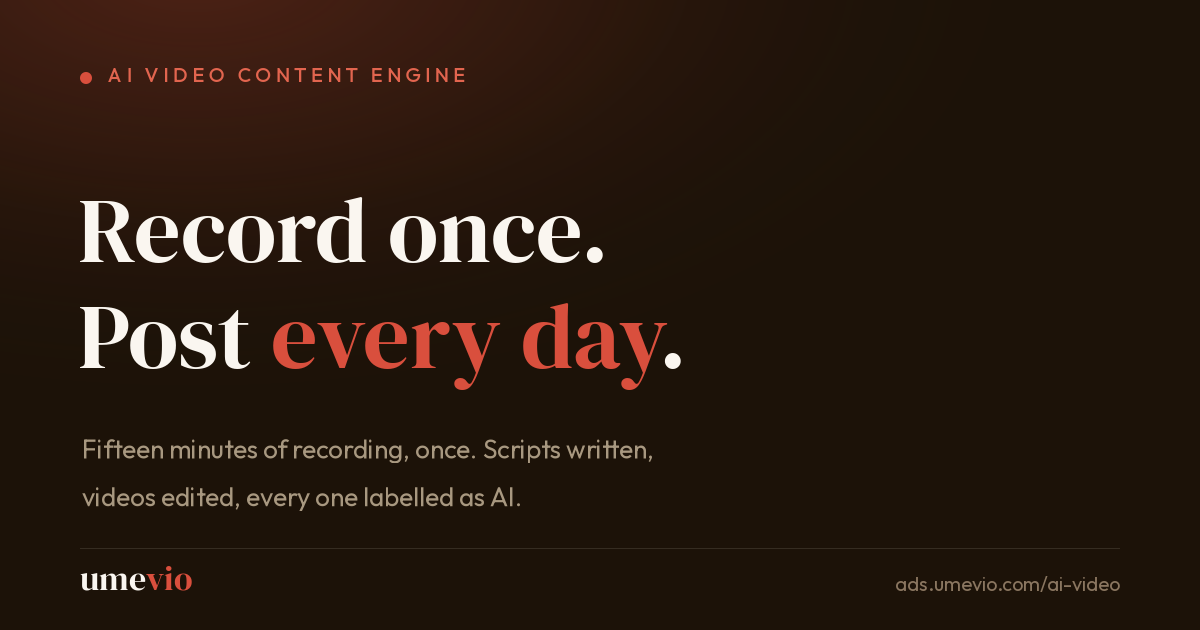
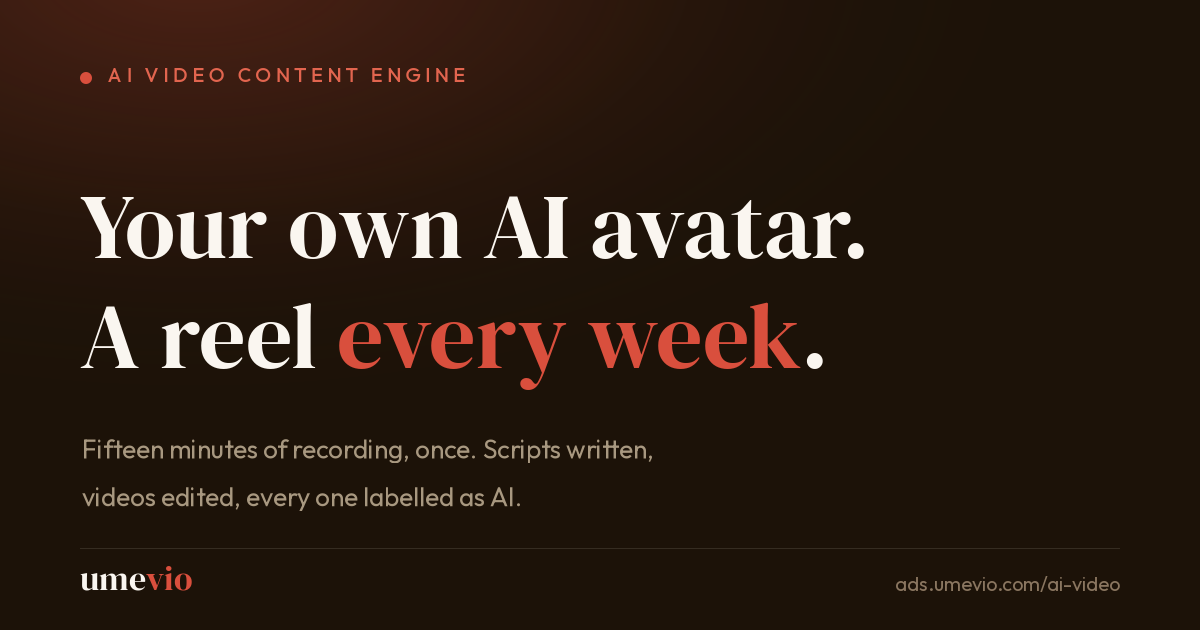
CRO pass on /ai-video: push visitors to the form
- Mobile sticky bar: big "Book a Free 30-Min Call" + WhatsApp icon (Call
  moved to the hero); it slides away once the form is on screen
- Hero: booking button on its own row, WhatsApp and Call under it
- Headline now "Your own AI avatar. A reel every week." (the old "Post
  every day" overpromised 4 reels a month); audience line adds doctors;
  share title, description and card updated to match
- "Already bought an AI avatar tool?" block for the A02 ad's promise
- Mid-page booking button after the video strip
- Price cards say "Book a call about this plan" and pass the plan to
  the form; the lead also carries utm_* and fbclid
- "I take six video clients at most" beside the prices; "You'll talk
  to Sreevin" and the reply-time line at the form
- Feature strip under the hero brightened

Changed region(s): [[0.0617, 0.4825, 0.6783, 0.6333], [0.0617, 0.3016, 0.74, 0.4222]]

diff --git a/components/AiVideoLanding.tsx b/components/AiVideoLanding.tsx
@@ -402,7 +402,7 @@ const FAQS = [
    Client names appear with the founder's authorisation (2026-08-12); he owns those
    relationships and confirmed he would speak to them directly. */
 const LIBRARY = [
-  { s: 'd1', v: `${V}/d1-hero.mp4`, p: '/images/ai-video/d1-poster.webp', c: 'Umevio', t: 'Record once, post daily' },
+  { s: 'd1', v: `${V}/d1-hero.mp4`, p: '/images/ai-video/d1-poster.webp', c: 'Umevio', t: 'One recording, every reel' },
   { s: 'pro-cost', v: `${V}/pro-cost.mp4`, p: '/images/ai-video/library/pro-cost.webp', c: 'Proalign', t: 'What braces actually cost' },
   { s: 'mpi-secret', v: `${V}/mpi-secret.mp4`, p: '/images/ai-video/library/mpi-secret.webp', c: 'MPI Invest', t: 'A secret in investing' },
   { s: 'mpi-skills', v: `${V}/mpi-skills.mp4`, p: '/images/ai-video/library/mpi-skills.webp', c: 'MPI Invest', t: 'Skills over salary' },
@@ -613,7 +613,10 @@ const CSS = `
         .av-sticky { position: fixed; left: 0; right: 0; bottom: 0; z-index: 50; display: flex; gap: 10px;
           padding: 12px 14px calc(12px + env(safe-area-inset-bottom));
           background: rgba(20,16,16,.92); backdrop-filter: blur(12px);
-          box-shadow: inset 0 1px 0 rgba(240,233,223,.12); }
+          box-shadow: inset 0 1px 0 rgba(240,233,223,.12);
+          transition: transform .25s ease, opacity .25s ease; }
+        .av-sticky--away { transform: translateY(110%); opacity: 0; pointer-events: none; }
+        @media (prefers-reduced-motion: reduce) { .av-sticky { transition: none; } }
         @media (min-width: 768px) { .av-sticky { display: none; } }
         .av-tailpad { height: 108px; }
         @media (min-width: 768px) { .av-tailpad { height: 0; } }
@@ -701,6 +704,25 @@ export default function AiVideoLanding() {
   const [sending, setSending] = useState(false);
   const [sent, setSent] = useState(false);
   const [err, setErr] = useState('');
+  /* Which price card sent them to the form, and which ad sent them to the page.
+     Both ride along in the lead email so a booked call can be traced back. */
+  const [plan, setPlan] = useState('');
+  const [utm, setUtm] = useState<Record<string, string>>({});
+  /* The sticky bar steps aside once the form is on screen: it would otherwise
+     sit on top of the fields and the submit button, worst with the keyboard up. */
+  const [formInView, setFormInView] = useState(false);
+
+  useEffect(() => {
+    const q = new URLSearchParams(window.location.search);
+    const keep: Record<string, string> = {};
+    ['utm_source', 'utm_medium', 'utm_campaign', 'utm_content', 'utm_term', 'fbclid'].forEach((k) => { const v = q.get(k); if (v) keep[k] = v; });
+    setUtm(keep);
+    const form = document.getElementById('start');
+    if (!form || !('IntersectionObserver' in window)) return;
+    const io = new IntersectionObserver(([e]) => setFormInView(e.isIntersecting), { threshold: 0.05 });
+    io.observe(form);
+    return () => io.disconnect();
+  }, []);
 
   const wa = `https://wa.me/${client.whatsapp.replace(/[^0-9]/g, '')}?text=${encodeURIComponent("Hi Sreevin — I saw the AI video page and I'd like to know more.")}`;
 
@@ -768,6 +790,8 @@ export default function AiVideoLanding() {
         headers: { 'Content-Type': 'application/json', Accept: 'application/json' },
         body: JSON.stringify({
           name, phone, work, blocker, budget,
+          plan: plan || 'not chosen',
+          ...utm,
           source: '/ai-video',
           _subject: `AI video enquiry — ${name || 'no name'}`,
         }),
@@ -805,8 +829,10 @@ export default function AiVideoLanding() {
           </Reveal>
 
           <Reveal delay={60}>
+            {/* Was "Record once. Post every day." — a promise the 4-reels-a-month
+                plan does not keep. Now matches the ads' "your own AI avatar". */}
             <h1 style={{ fontFamily: SERIF, fontSize: 'clamp(46px, 9.4vw, 88px)', lineHeight: 1.0, letterSpacing: '-0.025em', margin: `${SP.lg}px 0 0`, color: T.paper, maxWidth: 900 }}>
-              Record once.<br />Post <span style={{ color: T.rouge }}>every day</span>.
+              Your own AI avatar.<br />A reel <span style={{ color: T.rouge }}>every week</span>.
             </h1>
           </Reveal>
 
@@ -815,7 +841,7 @@ export default function AiVideoLanding() {
               before this, every word of body copy was Outfit. */}
           <Reveal delay={120}>
             <p style={{ fontFamily: SERIF, fontStyle: 'italic', fontSize: 'clamp(19px, 2.4vw, 25px)', lineHeight: 1.5, color: T.dust, margin: `${SP.lg}px 0 0`, maxWidth: 580 }}>
-              AI video for coaches and founders who can&rsquo;t keep filming.
+              For doctors, coaches and founders who can&rsquo;t keep filming.
             </p>
           </Reveal>
 
@@ -826,13 +852,21 @@ export default function AiVideoLanding() {
           </Reveal>
 
           <Reveal delay={200}>
-            <div style={{ display: 'flex', flexWrap: 'wrap', gap: 14, margin: `${SP.xl}px 0 0` }}>
-              <a href="#start" className="av-btn" style={{ display: 'inline-flex', alignItems: 'center', gap: 10, background: T.rouge, color: T.paper, textDecoration: 'none', padding: '17px 30px', borderRadius: RA.pill, fontWeight: 600, fontSize: FS.base, minHeight: 44, boxShadow: 'inset 0 1px 0 rgba(255,255,255,.18), 0 18px 46px rgba(217,79,61,.30)', cursor: 'pointer' }}>
+            {/* The form is the conversion, so the booking button gets a row to
+                itself; WhatsApp and Call sit under it, quieter, for people who
+                would rather talk now. */}
+            <div style={{ display: 'grid', gap: 12, margin: `${SP.xl}px 0 0`, maxWidth: 420 }}>
+              <a href="#start" className="av-btn" style={{ display: 'inline-flex', alignItems: 'center', justifyContent: 'center', gap: 10, background: T.rouge, color: T.paper, textDecoration: 'none', padding: '17px 30px', borderRadius: RA.pill, fontWeight: 600, fontSize: FS.base, minHeight: 44, boxShadow: 'inset 0 1px 0 rgba(255,255,255,.18), 0 18px 46px rgba(217,79,61,.30)', cursor: 'pointer' }}>
                 {client.primaryCTA} {Icon.arrow}
               </a>
-              <a href={wa} onClick={onWa} target="_blank" rel="noopener noreferrer" className="av-btn" style={{ display: 'inline-flex', alignItems: 'center', gap: 10, background: 'transparent', color: T.dust, textDecoration: 'none', padding: '17px 26px', borderRadius: RA.pill, fontWeight: 500, fontSize: FS.base, minHeight: 44, boxShadow: `inset 0 0 0 1px rgba(240,233,223,.22)`, cursor: 'pointer' }}>
-                {Icon.whatsapp} WhatsApp
-              </a>
+              <div style={{ display: 'flex', gap: 12 }}>
+                <a href={wa} onClick={onWa} target="_blank" rel="noopener noreferrer" className="av-btn" style={{ flex: 1, display: 'inline-flex', alignItems: 'center', justifyContent: 'center', gap: 9, background: 'transparent', color: T.dust, textDecoration: 'none', padding: '13px 18px', borderRadius: RA.pill, fontWeight: 500, fontSize: FS.sm, minHeight: 44, boxShadow: `inset 0 0 0 1px rgba(240,233,223,.22)`, cursor: 'pointer' }}>
+                  {Icon.whatsapp} WhatsApp
+                </a>
+                <a href={`tel:${client.phone}`} onClick={onCall} className="av-btn" style={{ flex: 1, display: 'inline-flex', alignItems: 'center', justifyContent: 'center', background: 'transparent', color: T.dust, textDecoration: 'none', padding: '13px 18px', borderRadius: RA.pill, fontWeight: 500, fontSize: FS.sm, minHeight: 44, boxShadow: `inset 0 0 0 1px rgba(240,233,223,.22)`, cursor: 'pointer' }}>
+                  Call
+                </a>
+              </div>
             </div>
           </Reveal>
 
@@ -884,7 +918,7 @@ export default function AiVideoLanding() {
 
       {/* ── STRIP ──────────────────────────────────────────────────────────── */}
       <div style={{ boxShadow: `inset 0 1px 0 rgba(240,233,223,.09), inset 0 -1px 0 rgba(240,233,223,.09)`, background: 'rgba(20,16,16,.45)' }}>
-        <div style={{ maxWidth: 1120, margin: '0 auto', padding: '20px', display: 'flex', flexWrap: 'wrap', gap: '10px 26px', justifyContent: 'center', fontSize: FS.xs, letterSpacing: '.1em', textTransform: 'uppercase', color: T.dim }}>
+        <div style={{ maxWidth: 1120, margin: '0 auto', padding: '20px', display: 'flex', flexWrap: 'wrap', gap: '10px 26px', justifyContent: 'center', fontSize: FS.xs, letterSpacing: '.1em', textTransform: 'uppercase', color: T.dust }}>
           {['One recording', 'Multiple looks', 'Scripts written for you', 'Fully edited', 'You approve everything'].map((s, i) => (
             <span key={i} style={{ display: 'inline-flex', alignItems: 'center', gap: 10 }}>
               <span aria-hidden style={{ width: 5, height: 5, borderRadius: RA.pill, background: T.rouge }} />{s}
@@ -914,6 +948,18 @@ export default function AiVideoLanding() {
               </Reveal>
             ))}
           </div>
+
+          {/* Ad A02 ("Evenings Back") lands here promising that a DIY avatar tool
+              moves the work rather than removing it. This is where the page
+              answers it, instead of leaving it to one FAQ near the bottom. */}
+          <Reveal delay={120}>
+            <div style={{ marginTop: SP.xl, padding: '28px 24px', borderRadius: RA.lg, borderLeft: `3px solid ${T.rouge}`, background: 'rgba(217,79,61,.07)', boxShadow: 'inset 0 0 0 1px rgba(217,79,61,.18)' }}>
+              <h3 style={{ fontFamily: SERIF, fontSize: FS.lg, lineHeight: 1.2, color: T.paper, margin: `0 0 ${SP.sm}px` }}>Already bought an AI avatar tool?</h3>
+              <p style={{ fontSize: FS.base, lineHeight: 1.65, color: T.muted, margin: 0, maxWidth: 680 }}>
+                The tool makes the face. It does not pick the topic, write a script that sounds like you, cut it, caption it, add music or post it. That work does not go away. It moves to your evenings. That work is the part I do.
+              </p>
+            </div>
+          </Reveal>
         </div>
       </section>
 
@@ -997,6 +1043,14 @@ export default function AiVideoLanding() {
             <svg width="20" height="20" viewBox="0 0 24 24" fill="none" stroke="currentColor" strokeWidth="2" strokeLinecap="round" strokeLinejoin="round" aria-hidden="true"><path d="M9 18l6-6-6-6" /></svg>
           </button>
         </div>
+
+        {/* Mid-page ask, at the moment the proof has just landed. The form is
+            otherwise about seven phone screens below the hero. */}
+        <div style={{ textAlign: 'center', padding: `${SP.xl}px 20px 0` }}>
+          <a href="#start" className="av-btn" style={{ display: 'inline-flex', alignItems: 'center', gap: 10, background: T.rouge, color: T.paper, textDecoration: 'none', padding: '16px 28px', borderRadius: RA.pill, fontWeight: 600, fontSize: FS.base, minHeight: 44, boxShadow: 'inset 0 1px 0 rgba(255,255,255,.18), 0 16px 40px rgba(217,79,61,.26)', cursor: 'pointer' }}>
+            Want this with your face? Book a call {Icon.arrow}
+          </a>
+        </div>
       </section>
 
       {/* ── HOW ────────────────────────────────────────────────────────────── */}
@@ -1031,7 +1085,7 @@ export default function AiVideoLanding() {
             <h2 style={{ fontFamily: SERIF, fontSize: 'clamp(32px, 5.4vw, 52px)', lineHeight: 1.1, color: T.paper, margin: `0 0 ${SP.sm}px` }}>
               No setup fee. No lock-in.
             </h2>
-            <p style={{ fontSize: FS.base, color: T.muted, margin: `0 0 ${SP.xl}px`, maxWidth: 560 }}>Billed monthly in advance. Cancel any month and I hand your recording back.</p>
+            <p style={{ fontSize: FS.base, color: T.muted, margin: `0 0 ${SP.xl}px`, maxWidth: 560 }}>Billed monthly in advance. Cancel any month and I hand your recording back. <span style={{ color: T.dust, fontWeight: 600 }}>I take six video clients at most.</span></p>
           </Reveal>
           <div style={{ display: 'grid', gap: 20, gridTemplateColumns: 'repeat(auto-fit, minmax(270px, 1fr))', alignItems: 'stretch' }}>
             {TIERS.map((t, i) => (
@@ -1071,12 +1125,12 @@ export default function AiVideoLanding() {
                       </li>
                     ))}
                   </ul>
-                  <a href="#start" className="av-btn" style={{
+                  <a href="#start" onClick={() => setPlan(t.name)} className="av-btn" style={{
                     display: 'inline-flex', alignItems: 'center', justifyContent: 'center', gap: 9, minHeight: 44,
                     background: t.hot ? T.rouge : 'transparent', color: t.hot ? T.paper : T.dust,
                     boxShadow: t.hot ? 'inset 0 1px 0 rgba(255,255,255,.18)' : `inset 0 0 0 1px rgba(240,233,223,.24)`,
                     textDecoration: 'none', padding: '14px 22px', borderRadius: RA.pill, fontWeight: 600, fontSize: FS.sm, cursor: 'pointer',
-                  }}>Start here {Icon.arrow}</a>
+                  }}>Book a call about this plan {Icon.arrow}</a>
                 </div>
               </Reveal>
             ))}
@@ -1168,6 +1222,13 @@ export default function AiVideoLanding() {
               <>
                 <h2 style={{ fontFamily: SERIF, fontSize: 'clamp(28px, 4.4vw, 40px)', lineHeight: 1.14, color: T.paper, margin: `0 0 ${SP.sm}px` }}>Tell me what you do.</h2>
                 <p style={{ fontSize: FS.base, lineHeight: 1.62, color: T.muted, margin: `0 0 ${SP.lg}px` }}>Thirty minutes, free, no pitch deck. If it isn&rsquo;t a fit I&rsquo;ll say so on the call.</p>
+                <p style={{ fontSize: FS.sm, lineHeight: 1.6, color: T.dust, margin: `0 0 ${SP.lg}px` }}>You&rsquo;ll talk to {client.founder.name}, the person who makes the videos. Not a salesperson.</p>
+                {plan && (
+                  <p style={{ display: 'inline-flex', alignItems: 'center', gap: 10, fontSize: FS.sm, color: T.dust, background: 'rgba(232,168,56,.10)', boxShadow: 'inset 0 0 0 1px rgba(232,168,56,.32)', borderRadius: RA.pill, padding: '7px 8px 7px 15px', margin: `0 0 ${SP.lg}px` }}>
+                    About: <strong style={{ color: T.paper, fontWeight: 600 }}>{plan}</strong>
+                    <button type="button" onClick={() => setPlan('')} aria-label="Clear the chosen plan" style={{ background: 'transparent', border: 'none', color: T.muted, fontSize: 18, lineHeight: 1, cursor: 'pointer', padding: '0 6px', minHeight: 28 }}>×</button>
+                  </p>
+                )}
                 {/* Only name and number are required now. Five mandatory fields on
                     a cold page is a tax on every visitor, and the budget select
                     in particular was asking someone to disqualify themselves
@@ -1200,6 +1261,7 @@ export default function AiVideoLanding() {
                   <button type="submit" disabled={sending} className="av-btn" style={{ minHeight: 52, background: sending ? T.dim : T.rouge, color: T.paper, border: 'none', borderRadius: RA.pill, padding: '16px 28px', fontSize: FS.base, fontWeight: 600, fontFamily: 'inherit', cursor: sending ? 'wait' : 'pointer', marginTop: 4, boxShadow: sending ? 'none' : 'inset 0 1px 0 rgba(255,255,255,.18), 0 16px 40px rgba(217,79,61,.26)' }}>
                     {sending ? 'Sending…' : client.primaryCTA}
                   </button>
+                  <p style={{ fontSize: FS.sm, lineHeight: 1.55, color: T.muted, margin: 0, textAlign: 'center' }}>I reply on WhatsApp within a few hours, {client.hours}.</p>
                 </form>
               </>
             )}
@@ -1257,9 +1319,12 @@ export default function AiVideoLanding() {
       </a>
 
       {/* ── STICKY BAR (mobile only) ───────────────────────────────────────── */}
-      <div className="av-sticky">
-        <a href={`tel:${client.phone}`} onClick={onCall} className="av-btn" style={{ flex: 1, minHeight: 48, display: 'inline-flex', alignItems: 'center', justifyContent: 'center', gap: 8, background: 'transparent', boxShadow: `inset 0 0 0 1px rgba(240,233,223,.24)`, color: T.dust, textDecoration: 'none', borderRadius: RA.pill, fontWeight: 600, fontSize: FS.sm, cursor: 'pointer' }}>Call</a>
-        <a href={wa} onClick={onWa} target="_blank" rel="noopener noreferrer" className="av-btn" style={{ flex: 2, minHeight: 48, display: 'inline-flex', alignItems: 'center', justifyContent: 'center', gap: 9, background: T.rouge, color: T.paper, textDecoration: 'none', borderRadius: RA.pill, fontWeight: 600, fontSize: FS.sm, cursor: 'pointer' }}>{Icon.whatsapp} {client.secondaryCTA}</a>
+      {/* The bar used to be Call + a big WhatsApp, which steered people away
+          from the form, the one thing the ads optimise for. Now the booking
+          button is the big one and WhatsApp is an icon. Call lives in the hero. */}
+      <div className={`av-sticky${formInView ? ' av-sticky--away' : ''}`} aria-hidden={formInView || undefined}>
+        <a href={wa} onClick={onWa} target="_blank" rel="noopener noreferrer" aria-label={`${client.secondaryCTA} — opens WhatsApp`} tabIndex={formInView ? -1 : undefined} className="av-btn" style={{ flex: '0 0 52px', minHeight: 48, display: 'inline-flex', alignItems: 'center', justifyContent: 'center', background: 'transparent', boxShadow: `inset 0 0 0 1px rgba(240,233,223,.24)`, color: T.dust, textDecoration: 'none', borderRadius: RA.pill, cursor: 'pointer' }}>{Icon.whatsapp}</a>
+        <a href="#start" tabIndex={formInView ? -1 : undefined} className="av-btn" style={{ flex: 1, minHeight: 48, display: 'inline-flex', alignItems: 'center', justifyContent: 'center', gap: 9, background: T.rouge, color: T.paper, textDecoration: 'none', borderRadius: RA.pill, fontWeight: 600, fontSize: FS.sm, cursor: 'pointer' }}>{client.primaryCTA} {Icon.arrow}</a>
       </div>
     </main>
   );

diff --git a/app/ai-video/page.tsx b/app/ai-video/page.tsx
@@ -20,7 +20,7 @@ import AiVideoLanding from '@/components/AiVideoLanding';
 export const metadata: Metadata = {
   title: 'AI Video Content Engine — Umevio',
   description:
-    'Record once, post every day. Scripted, edited, honestly labelled AI video for coaches and founders who cannot keep filming. Built by the person who also runs the ads.',
+    'Your own AI avatar, a reel every week, without filming. Scripted, edited, honestly labelled AI video for doctors, coaches and founders who cannot keep filming. Built by the person who also runs the ads.',
   robots: { index: true, follow: true },
   /* The share card is built by scripts/build-og-image.cjs and committed to
      public/images/ai-video/og.png. It is NOT generated at request time: Next 14
@@ -28,18 +28,18 @@ export const metadata: Metadata = {
      Windows mangles, so the opengraph-image.tsx convention crashes `next build`
      on any Windows machine. Re-run the script if the headline or brand changes. */
   openGraph: {
-    title: 'Record once. Post every day. — Umevio',
+    title: 'Your own AI avatar. A reel every week. — Umevio',
     description:
-      'AI video for coaches and founders who cannot keep filming. Fifteen minutes of recording, once. Scripts written, videos edited, every one labelled.',
+      'AI video for doctors, coaches and founders who cannot keep filming. Fifteen minutes of recording, once. Scripts written, videos edited, every one labelled.',
     type: 'website',
     siteName: 'Umevio',
-    images: [{ url: '/images/ai-video/og.png', width: 1200, height: 630, alt: 'Umevio — Record once. Post every day.' }],
+    images: [{ url: '/images/ai-video/og.png', width: 1200, height: 630, alt: 'Umevio — Your own AI avatar. A reel every week.' }],
   },
   twitter: {
     card: 'summary_large_image',
-    title: 'Record once. Post every day. — Umevio',
+    title: 'Your own AI avatar. A reel every week. — Umevio',
     description:
-      'AI video for coaches and founders who cannot keep filming. Fifteen minutes of recording, once.',
+      'AI video for doctors, coaches and founders who cannot keep filming. Fifteen minutes of recording, once.',
     images: ['/images/ai-video/og.png'],
   },
 };
